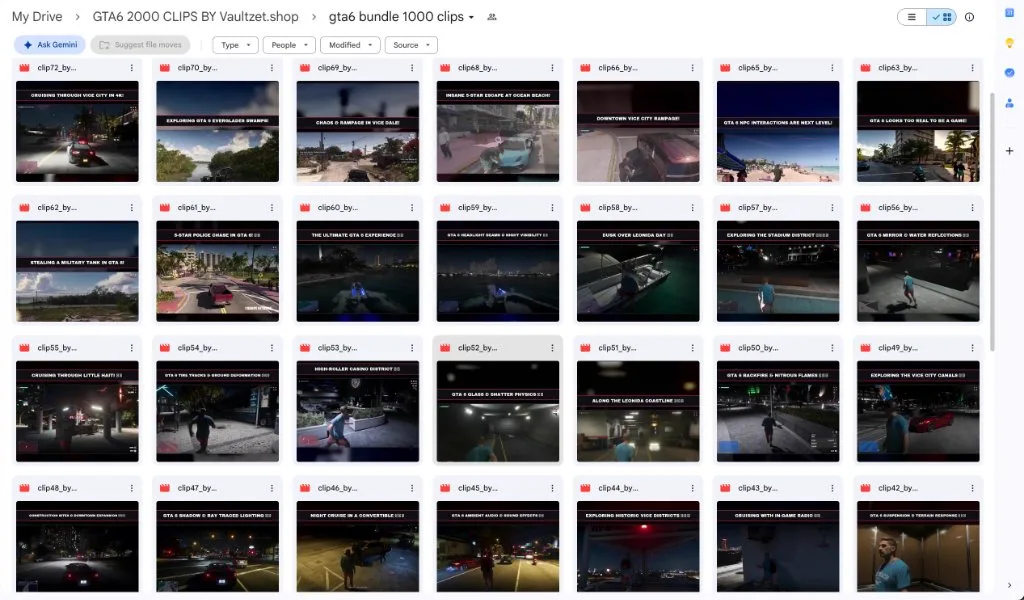
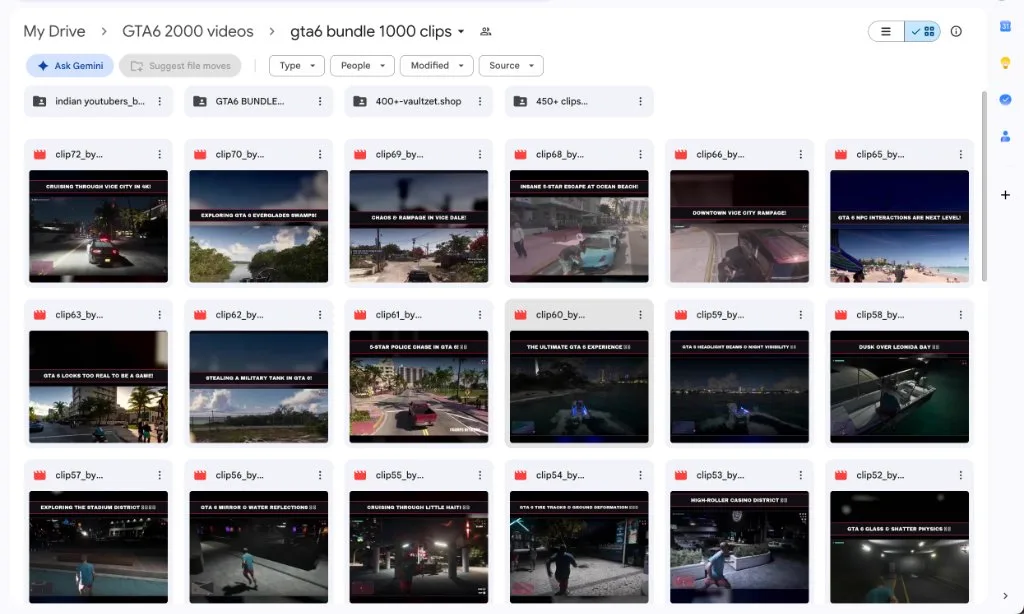
feat(gta6): update 1st and 2nd drive proof screenshots with latest clean folder structure

diff --git a/src/components/gta6/Gta6DriveProofCarousel.tsx b/src/components/gta6/Gta6DriveProofCarousel.tsx
@@ -36,8 +36,8 @@ const DRIVE_SAMPLES: DriveSampleItem[] = [
     image: '/gta-drive-samples/gta-drive-overview.webp',
     tag: '👑 Master Folder & License',
     title: 'Google Drive Delivery Structure + MRR License',
-    folderPath: 'My Drive > GTA6 2000 CLIPS BY Vaultzet.shop',
-    description: '3 Master folders (1000 Clips, 750 Clips by Vaultzet, 350 Clips by Vaultzet) + Official Master Resell Rights (MRR) License PDF.',
+    folderPath: 'My Drive > GTA6 2000 videos',
+    description: '3 Master folders (1000 Clips, 750 Videos, 350 Videos) + Official Master Resell Rights (MRR) License PDF.',
     fileCount: '2,000+ Total Files',
   },
   {
@@ -45,8 +45,8 @@ const DRIVE_SAMPLES: DriveSampleItem[] = [
     image: '/gta-drive-samples/gta-drive-1000clips.webp',
     tag: '🌴 Vice City & Neon Vibes',
     title: 'Folder: 1000 Clips Main Bundle',
-    folderPath: 'GTA6 2000 CLIPS > gta6 bundle 1000 clips',
-    description: 'High-octane Vice City 4K cinematics, Everglades swamp exploration, Ocean Beach escapes, casino & nightlife.',
+    folderPath: 'GTA6 2000 videos > gta6 bundle 1000 clips',
+    description: 'Vice City 4K cinematics, Indian YouTubers pack, 400+ Vaultzet clips & 450+ gameplay cuts.',
     fileCount: '1,000 Clips (4K)',
   },
   {
